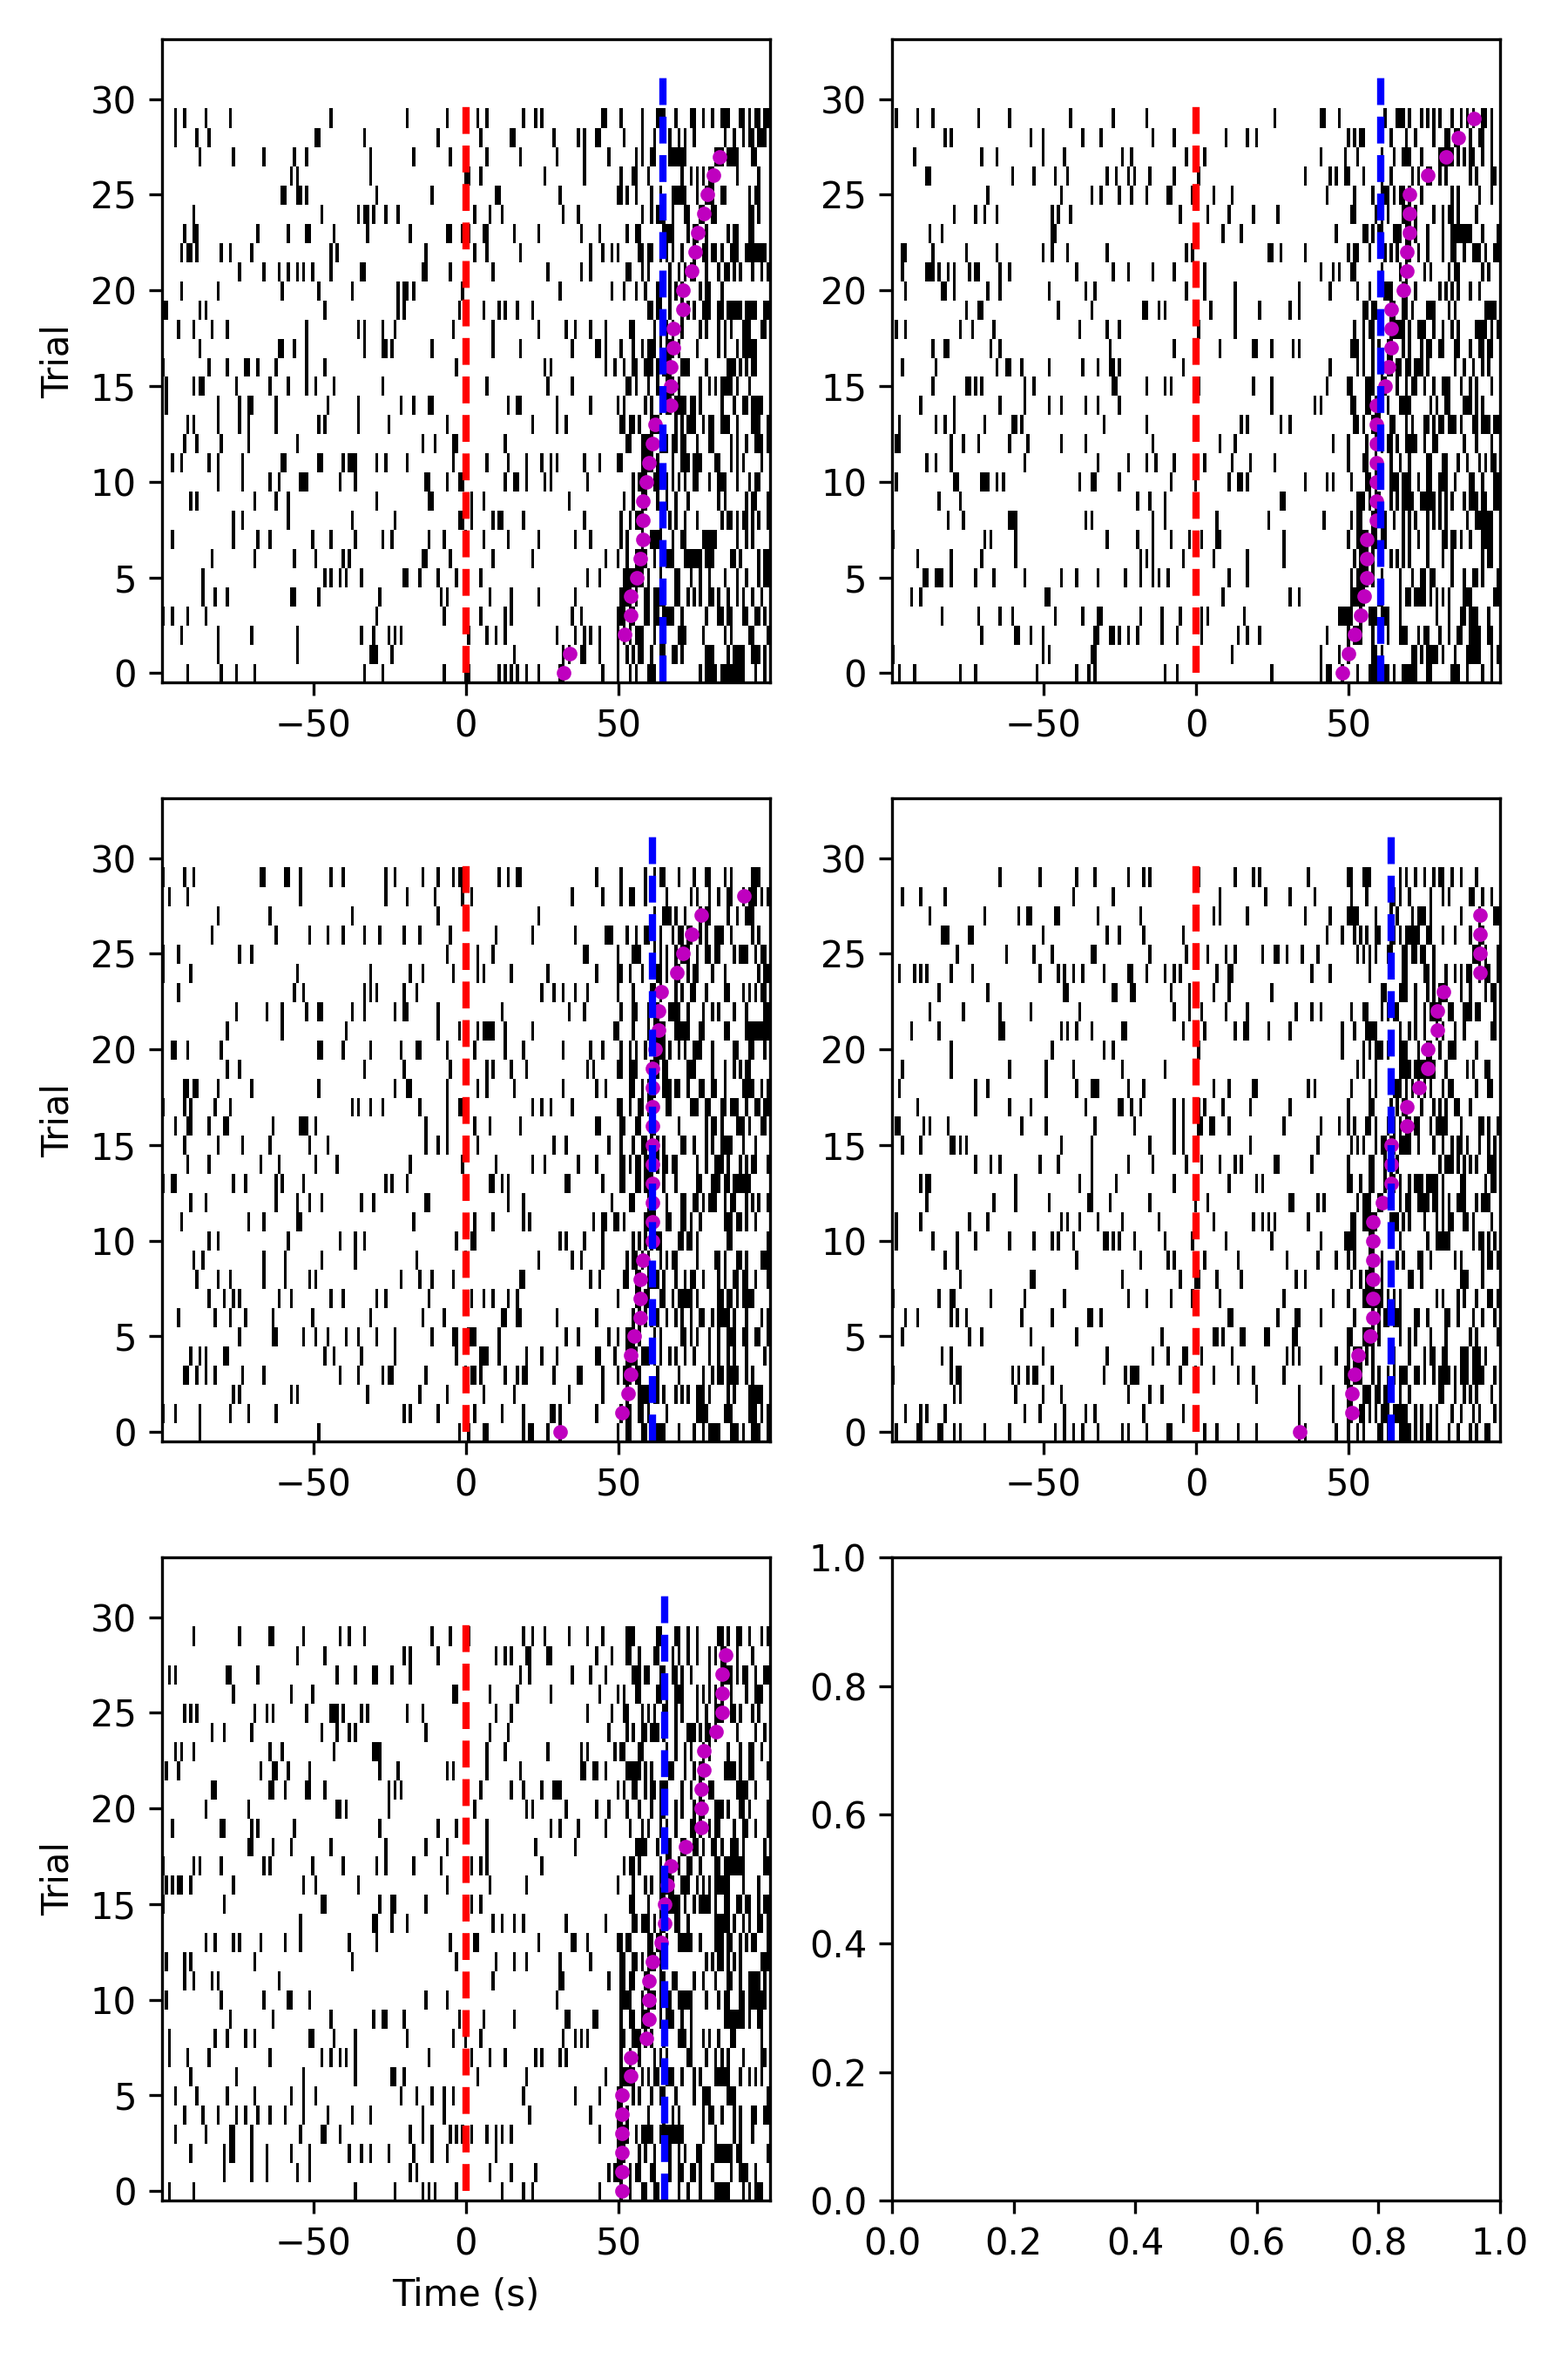
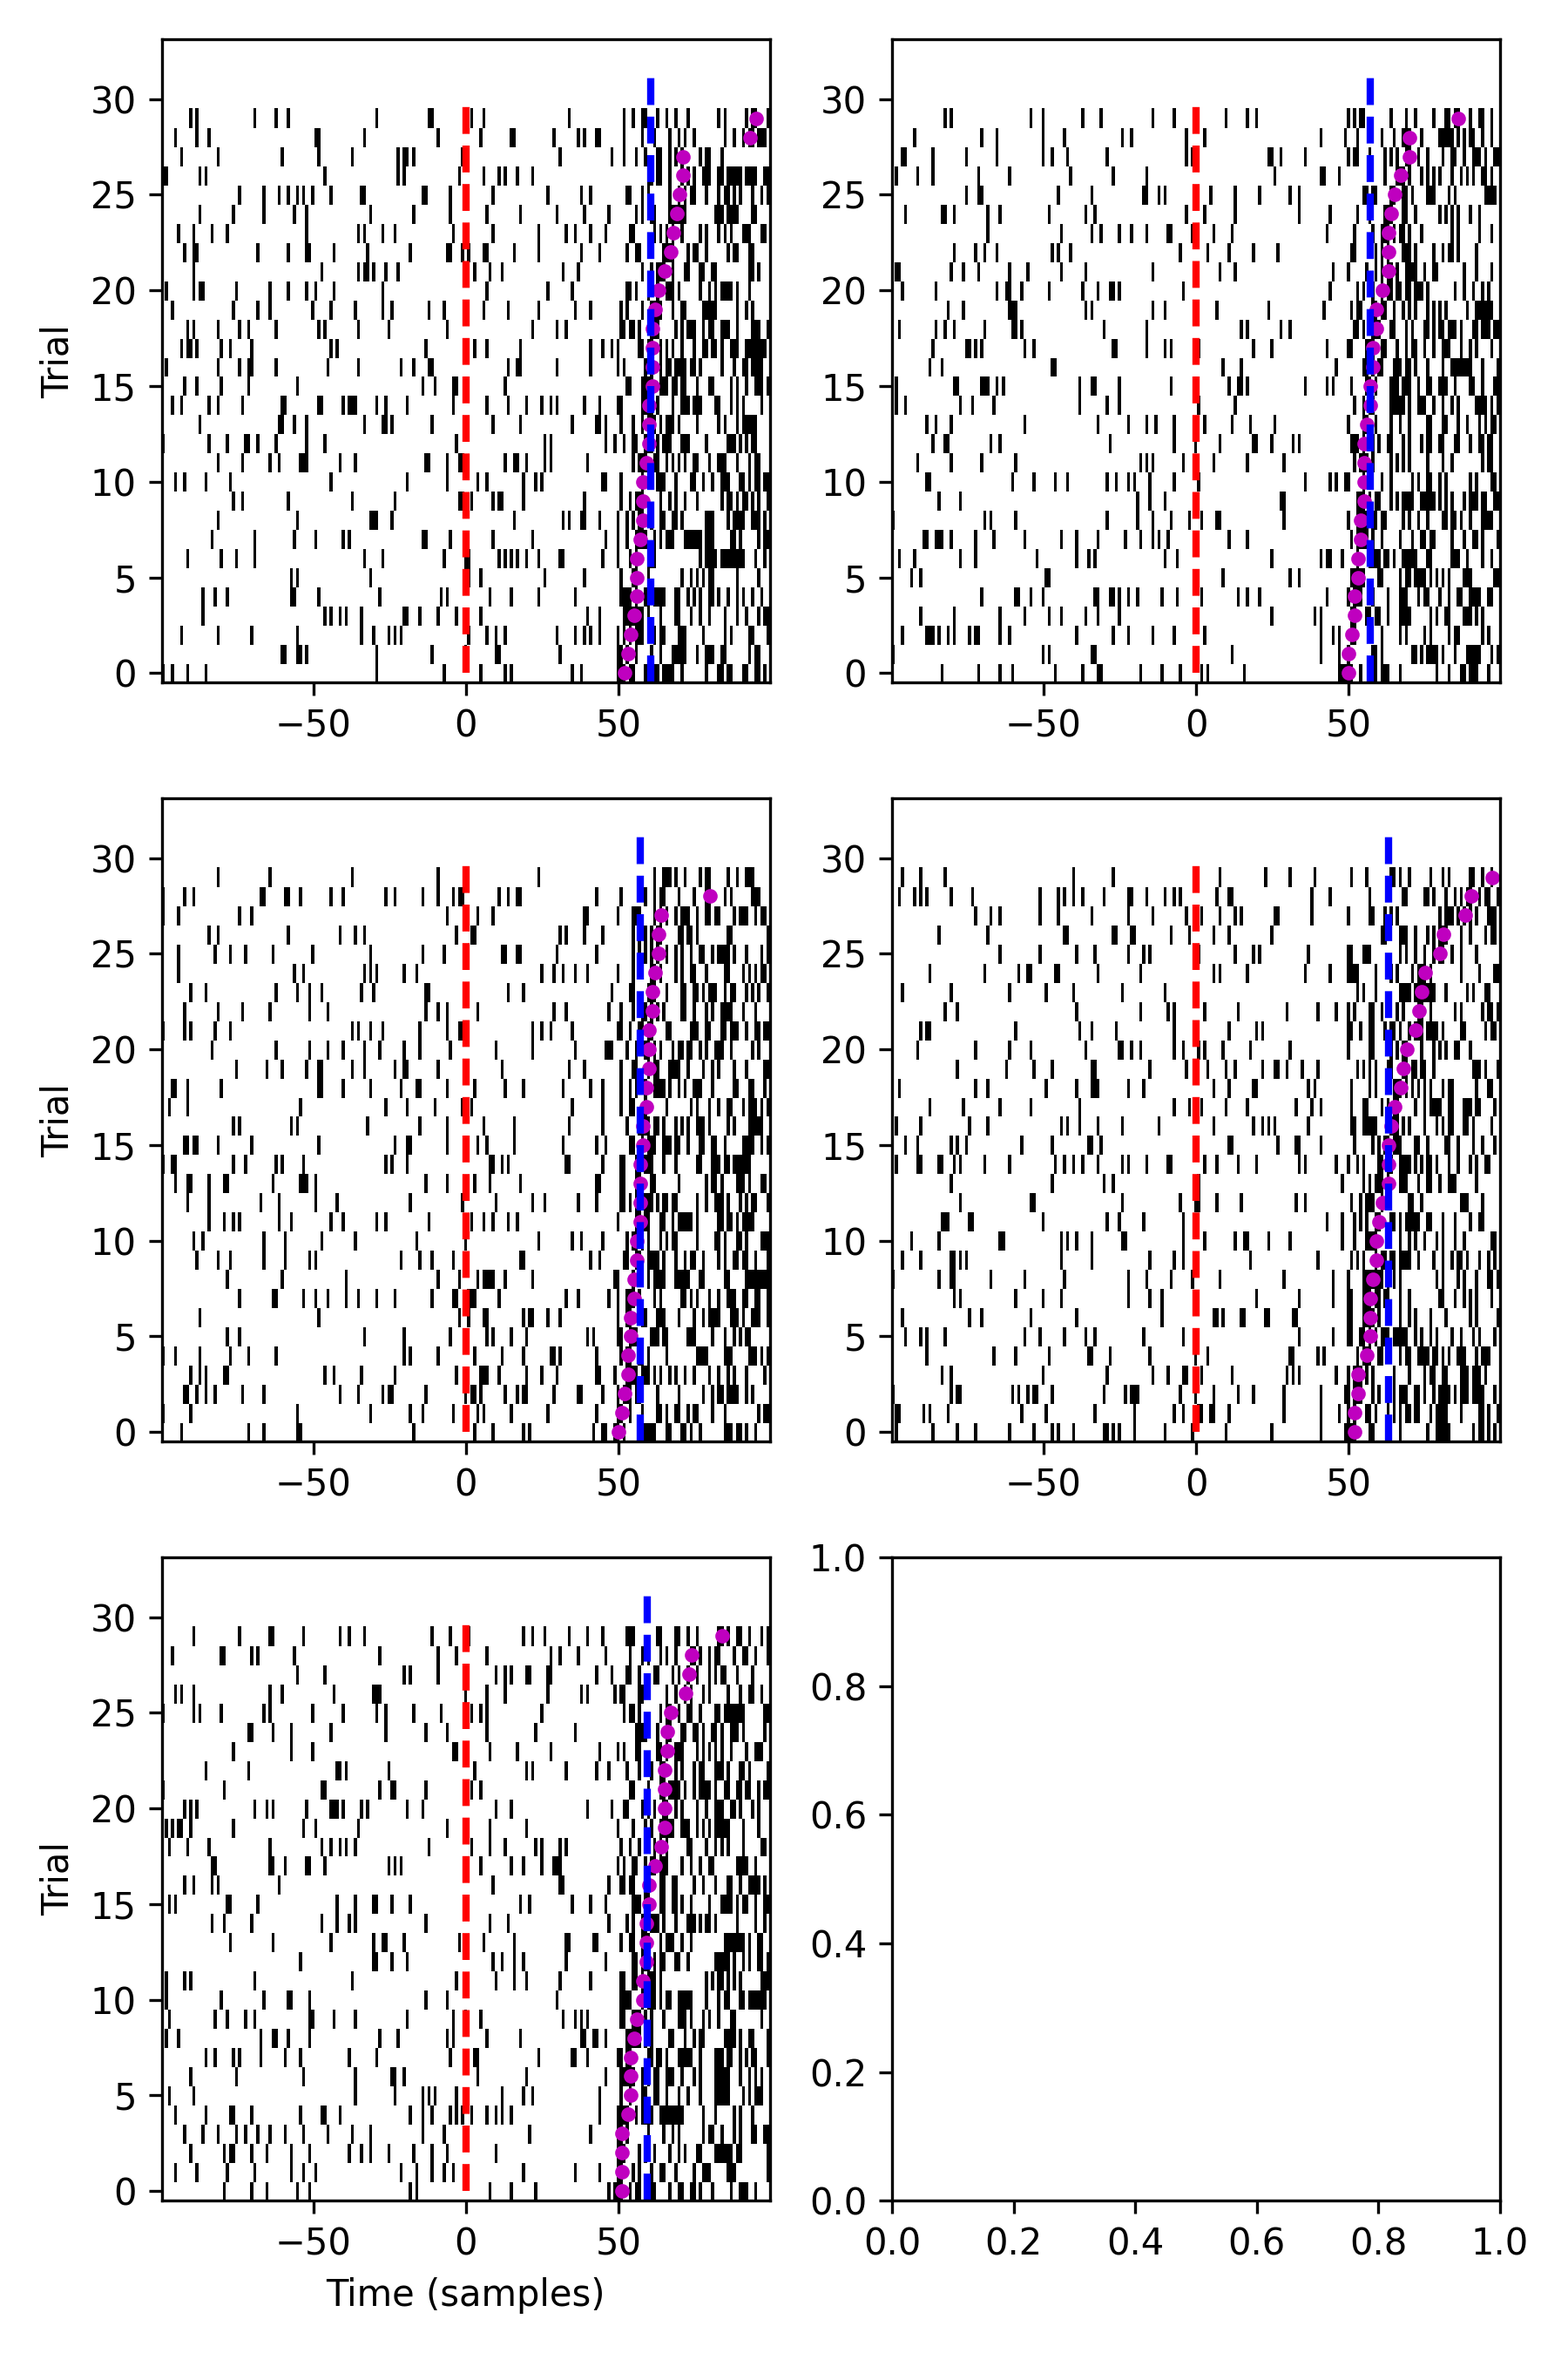
add lowpass option

diff --git a/aopy/analysis/latency.py b/aopy/analysis/latency.py
@@ -296,13 +296,16 @@ def calc_llr_inh_poisson(spike_trial, rate1, rate2):
     llr = (rate2 - rate1) + spike_trial * np.log(rate1 / rate2)
     return llr
 
-def calc_accllr_spike(spikes_altcond, spikes_nullcond):
+def calc_accllr_spike(spikes_altcond, spikes_nullcond, spikes_altcond_lowpass, spikes_nullcond_lowpass):
     '''
     Compute AccLLR for spikes using inhomogeneous Poisson model (static, no smoothing).
     
     Args:
         spikes_altcond (nt, ntrial): binned spike trains for alternative condition
         spikes_nullcond (nt, ntrial): binned spike trains for null condition
+        spikes_altcond_lowpass (nt, ntrial): low-pass filtered copy of alternative condition trials. If
+            desired, just pass the spikes_altcond again to avoid using a low-pass filtered version for model building.
+        spikes_nullcond_lowpass (nt, ntrial): low-pass filtered copy of null condition trials
     
     Returns:
         tuple: tuple containing:
@@ -320,28 +323,28 @@ def calc_accllr_spike(spikes_altcond, spikes_nullcond):
         raise ValueError("spikes_altcond and spikes_nullcond must have the same number of time bins (nt)")
     
     # Compute static PSTH (mean rate) for null and altcond
-    rate_null = np.mean(spikes_nullcond, axis=1) # (nt,)
-    rate_altcond = np.mean(spikes_altcond, axis=1)  # (nt,)
+    rate_nullcond = np.mean(spikes_nullcond_lowpass, axis=1) # (nt,)
+    rate_altcond = np.mean(spikes_altcond_lowpass, axis=1)  # (nt,)
     
     # Altcond trials: leave-one-out for altcond model
     accllr_altcond = np.zeros((nt, ntrial_altcond))
     for i in range(ntrial_altcond):
         # Leave-one-out altcond model
         if ntrial_altcond > 1:
-            loo_altcond = np.delete(spikes_altcond, i, axis=1)
+            loo_altcond = np.delete(spikes_altcond_lowpass, i, axis=1)
         else:
-            loo_altcond = spikes_altcond
+            loo_altcond = spikes_altcond_lowpass
         rate_altcond_loo = np.mean(loo_altcond, axis=1)
-        llr = calc_llr_inh_poisson(spikes_altcond[:, i], rate_altcond_loo, rate_null)
+        llr = calc_llr_inh_poisson(spikes_altcond[:, i], rate_altcond_loo, rate_nullcond)
         accllr_altcond[:, i] = np.nancumsum(llr)
    
     # Nullcond trials: leave-one-out for nullcond model
     accllr_nullcond = np.zeros((nt, ntrial_nullcond))
     for i in range(ntrial_nullcond):
         if ntrial_nullcond > 1:
-            loo_nullcond = np.delete(spikes_nullcond, i, axis=1)
+            loo_nullcond = np.delete(spikes_nullcond_lowpass, i, axis=1)
         else:
-            loo_nullcond = spikes_nullcond
+            loo_nullcond = spikes_nullcond_lowpass
         rate_nullcond_loo = np.mean(loo_nullcond, axis=1)
         llr = calc_llr_inh_poisson(spikes_nullcond[:, i], rate_altcond, rate_nullcond_loo)
         accllr_nullcond[:, i] = np.nancumsum(llr)
@@ -654,7 +657,8 @@ def calc_accllr_st_single_ch(data_altcond_ch, data_nullcond_ch, lowpass_altcond_
         accllr_altcond, accllr_nullcond = calc_accllr_lfp(data_altcond_ch, data_nullcond_ch, 
                                                           lowpass_altcond_ch, lowpass_nullcond_ch)
     elif modality == 'spike':
-        accllr_altcond, accllr_nullcond = calc_accllr_spike(data_altcond_ch, data_nullcond_ch)
+        accllr_altcond, accllr_nullcond = calc_accllr_spike(data_altcond_ch, data_nullcond_ch,
+                                                            lowpass_altcond_ch, lowpass_nullcond_ch)
     else:
         raise ValueError("AccLLR currently only supports LFP and spike data")
         

diff --git a/tests/test_analysis.py b/tests/test_analysis.py
@@ -1420,8 +1420,10 @@ class LatencyTests(unittest.TestCase):
         nullcond = np.random.poisson(0.1,size=altcond.shape)
         print(altcond.shape, nullcond.shape)
 
-        # Test wrapper with spike data and no selectivity matching and trial_average=True
-        st, roc_auc, roc_se, roc_p_fdrc = latency.calc_accllr_st(altcond, nullcond, altcond, nullcond, 'spike', 1)
+        # Test wrapper with spike data and no selectivity matching
+        altcond_smooth = aopy.precondition.smooth_spike_raster(altcond, 1, 5)
+        nullcond_smooth = aopy.precondition.smooth_spike_raster(nullcond, 1, 5)
+        st, roc_auc, roc_se, roc_p_fdrc = latency.calc_accllr_st(altcond, nullcond, altcond_smooth, nullcond_smooth, 'spike', 1)
         accllr_mean = np.nanmedian(st, axis=1)
 
         # Plot rasters sorted by latency
